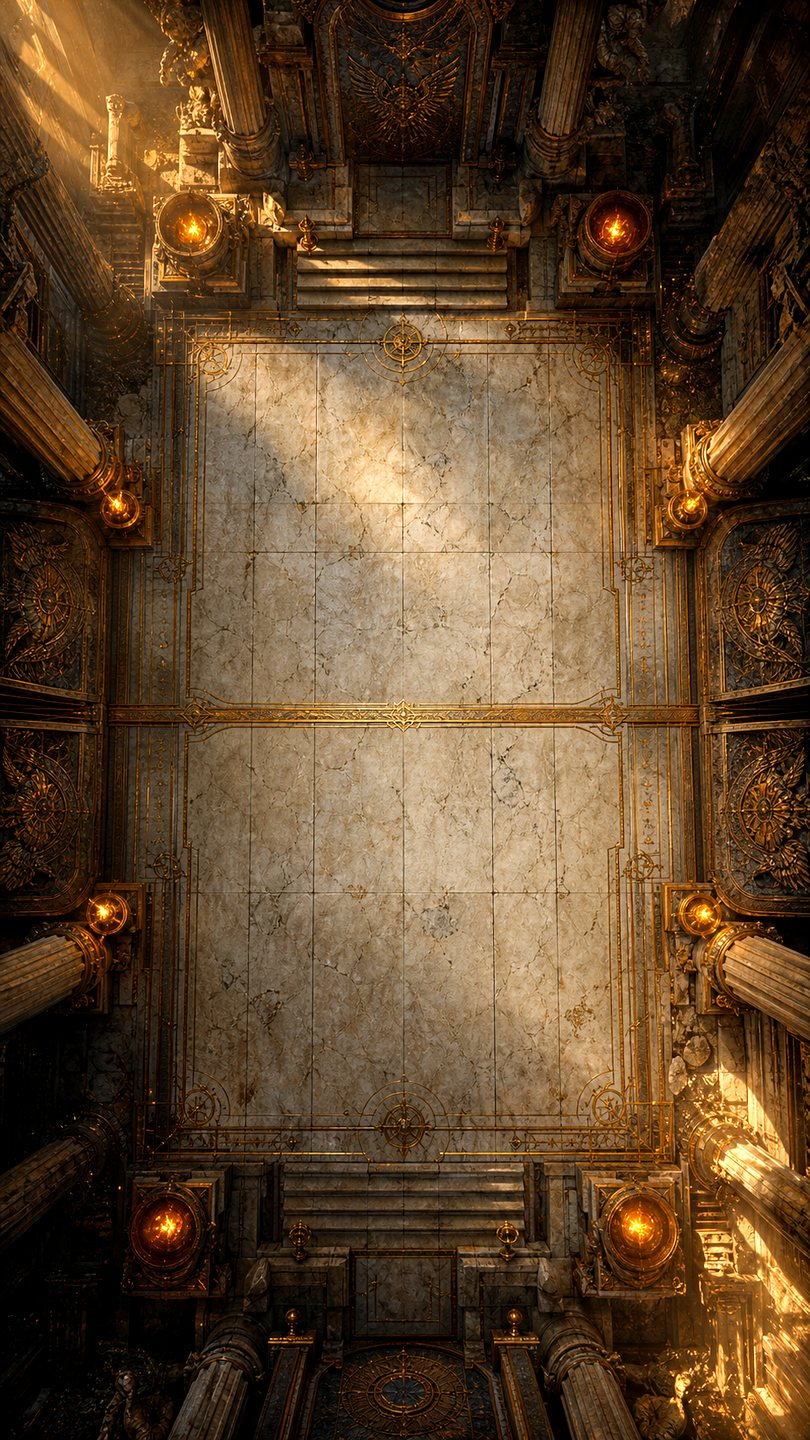
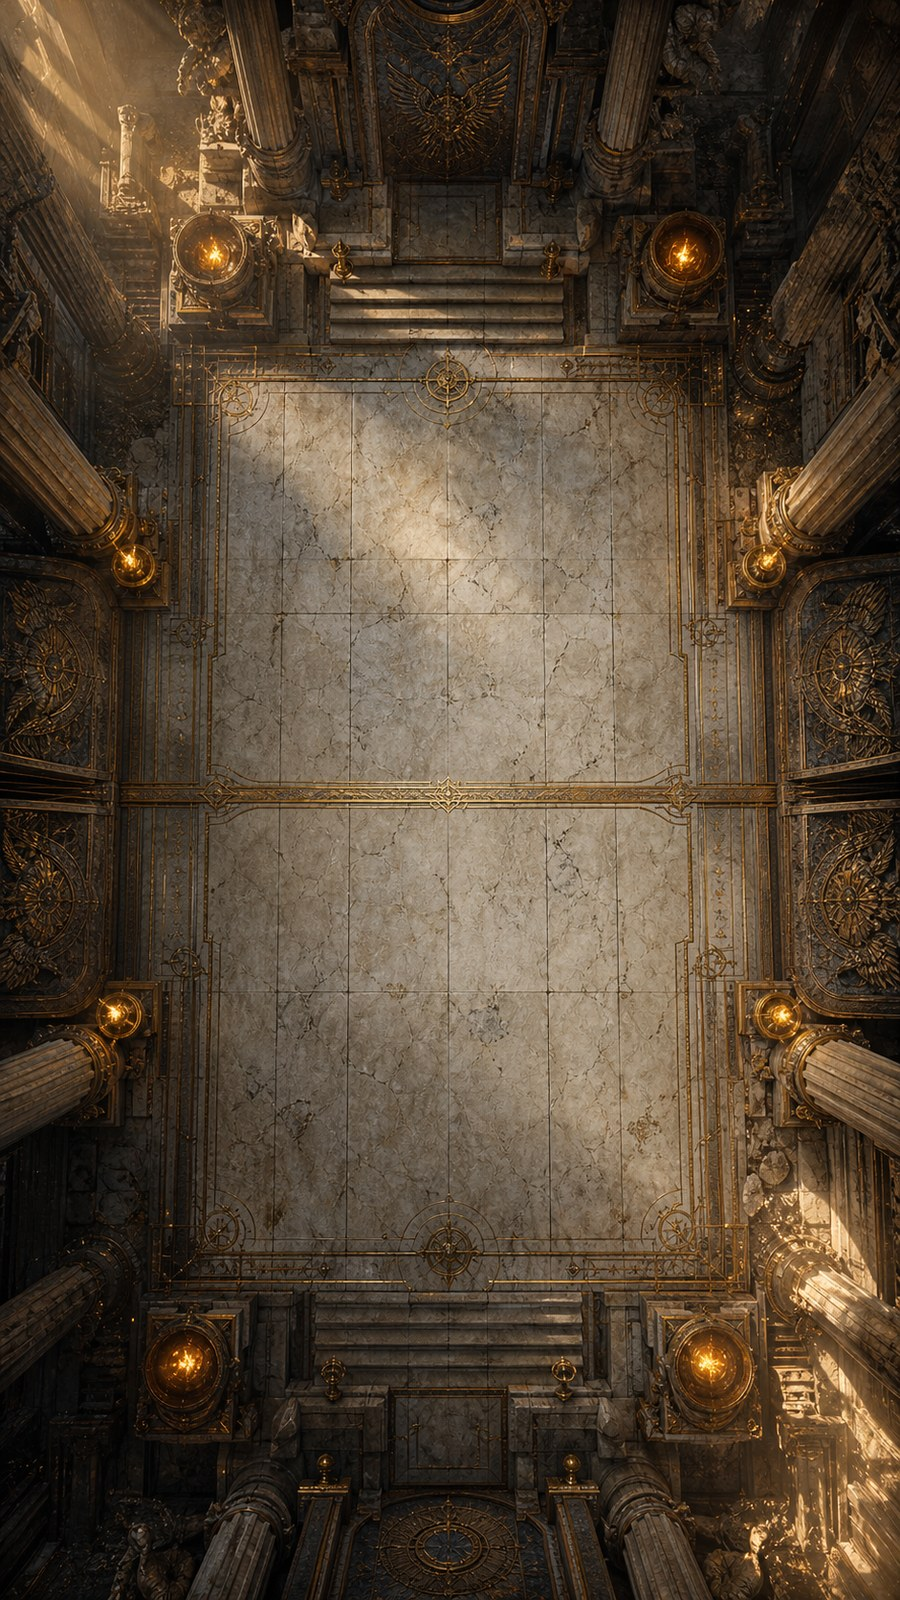
Show full battle room frames: natural tables, contain, no edge wash.

diff --git a/src/App.css b/src/App.css
@@ -2294,18 +2294,11 @@ button {
   grid-template-rows: auto auto minmax(0, 1fr) var(--battle-footer-h);
   gap: 0.2rem;
   padding: 0.3rem 0.45rem 0.35rem;
-  background-color: #1a120c;
-  background-image:
-    radial-gradient(
-      ellipse at 50% 42%,
-      rgba(8, 5, 3, 0) 0%,
-      rgba(8, 5, 3, 0.12) 55%,
-      rgba(5, 3, 2, 0.42) 100%
-    ),
-    var(--battle-table, url("/battle-table.jpg"));
-  /* cover — стол на весь экран; центр = игровая плита */
-  background-size: cover, cover;
-  background-position: center center, center center;
+  /* Комната-стол: края с декором видны целиком, центр пустой под бой */
+  background-color: #07060a;
+  background-image: var(--battle-table, url("/battle-table.jpg"));
+  background-size: contain;
+  background-position: center center;
   background-repeat: no-repeat;
   box-sizing: border-box;
   opacity: 0;

diff --git a/src/game/battleTables.ts b/src/game/battleTables.ts
@@ -21,7 +21,7 @@ const SCHOOL_TABLE: Record<string, string> = {
 };
 
 /** Версия артов — бамп при замене файлов. */
-export const BATTLE_TABLE_VER = 2;
+export const BATTLE_TABLE_VER = 3;
 
 export function battleTableUrl(path: string): string {
   return `${path}?v=${BATTLE_TABLE_VER}`;
